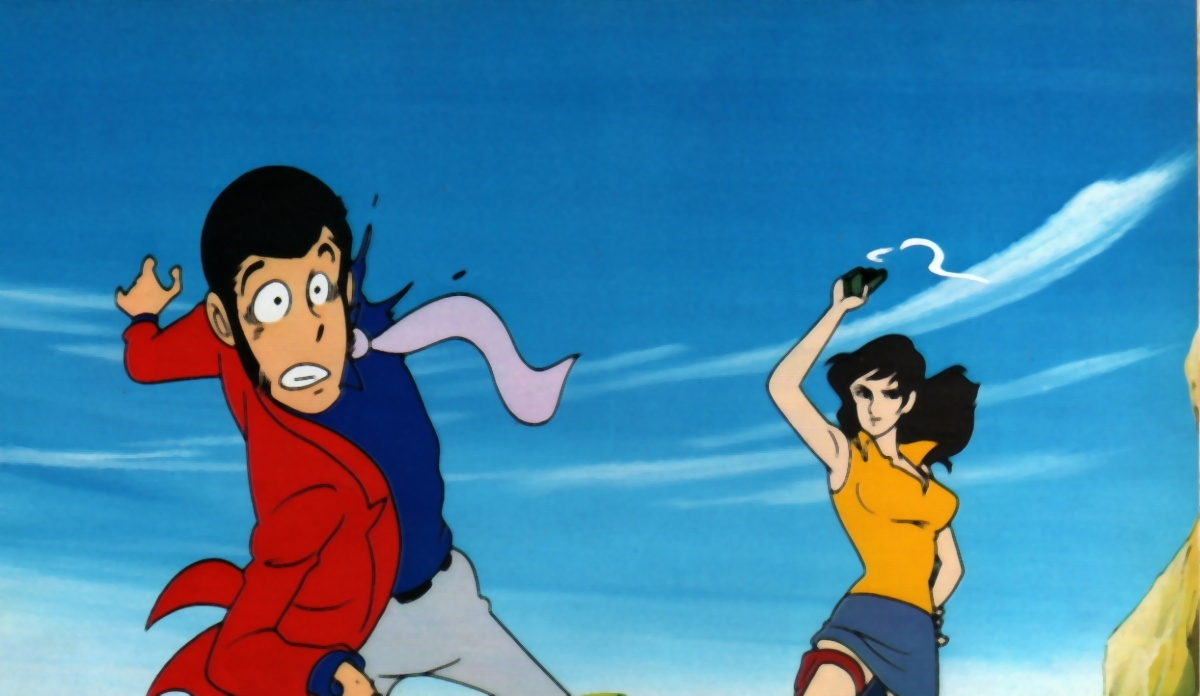
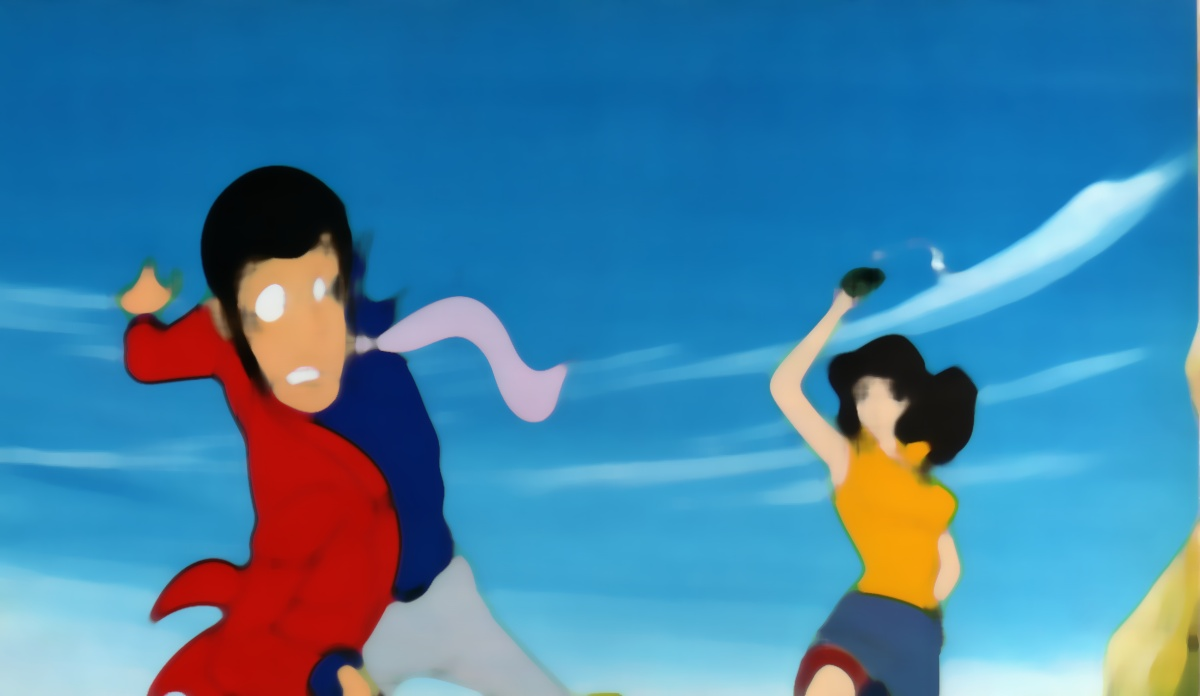
tanaka

diff --git a/src/main/kotlin/tanaka79/MedianBlur.kt b/src/main/kotlin/tanaka79/MedianBlur.kt
@@ -11,6 +11,6 @@ fun main(args: Array<String>) {
     Origami.init()
     val im = imread("data/lupin3.jpeg") // 入力画像の取得
     val dst = Mat()
-    medianBlur(im, dst, 5)
+    medianBlur(im, dst, 19)
     imwrite("out/tanaka_median.jpg", dst) // 出力画像の保存
 }
